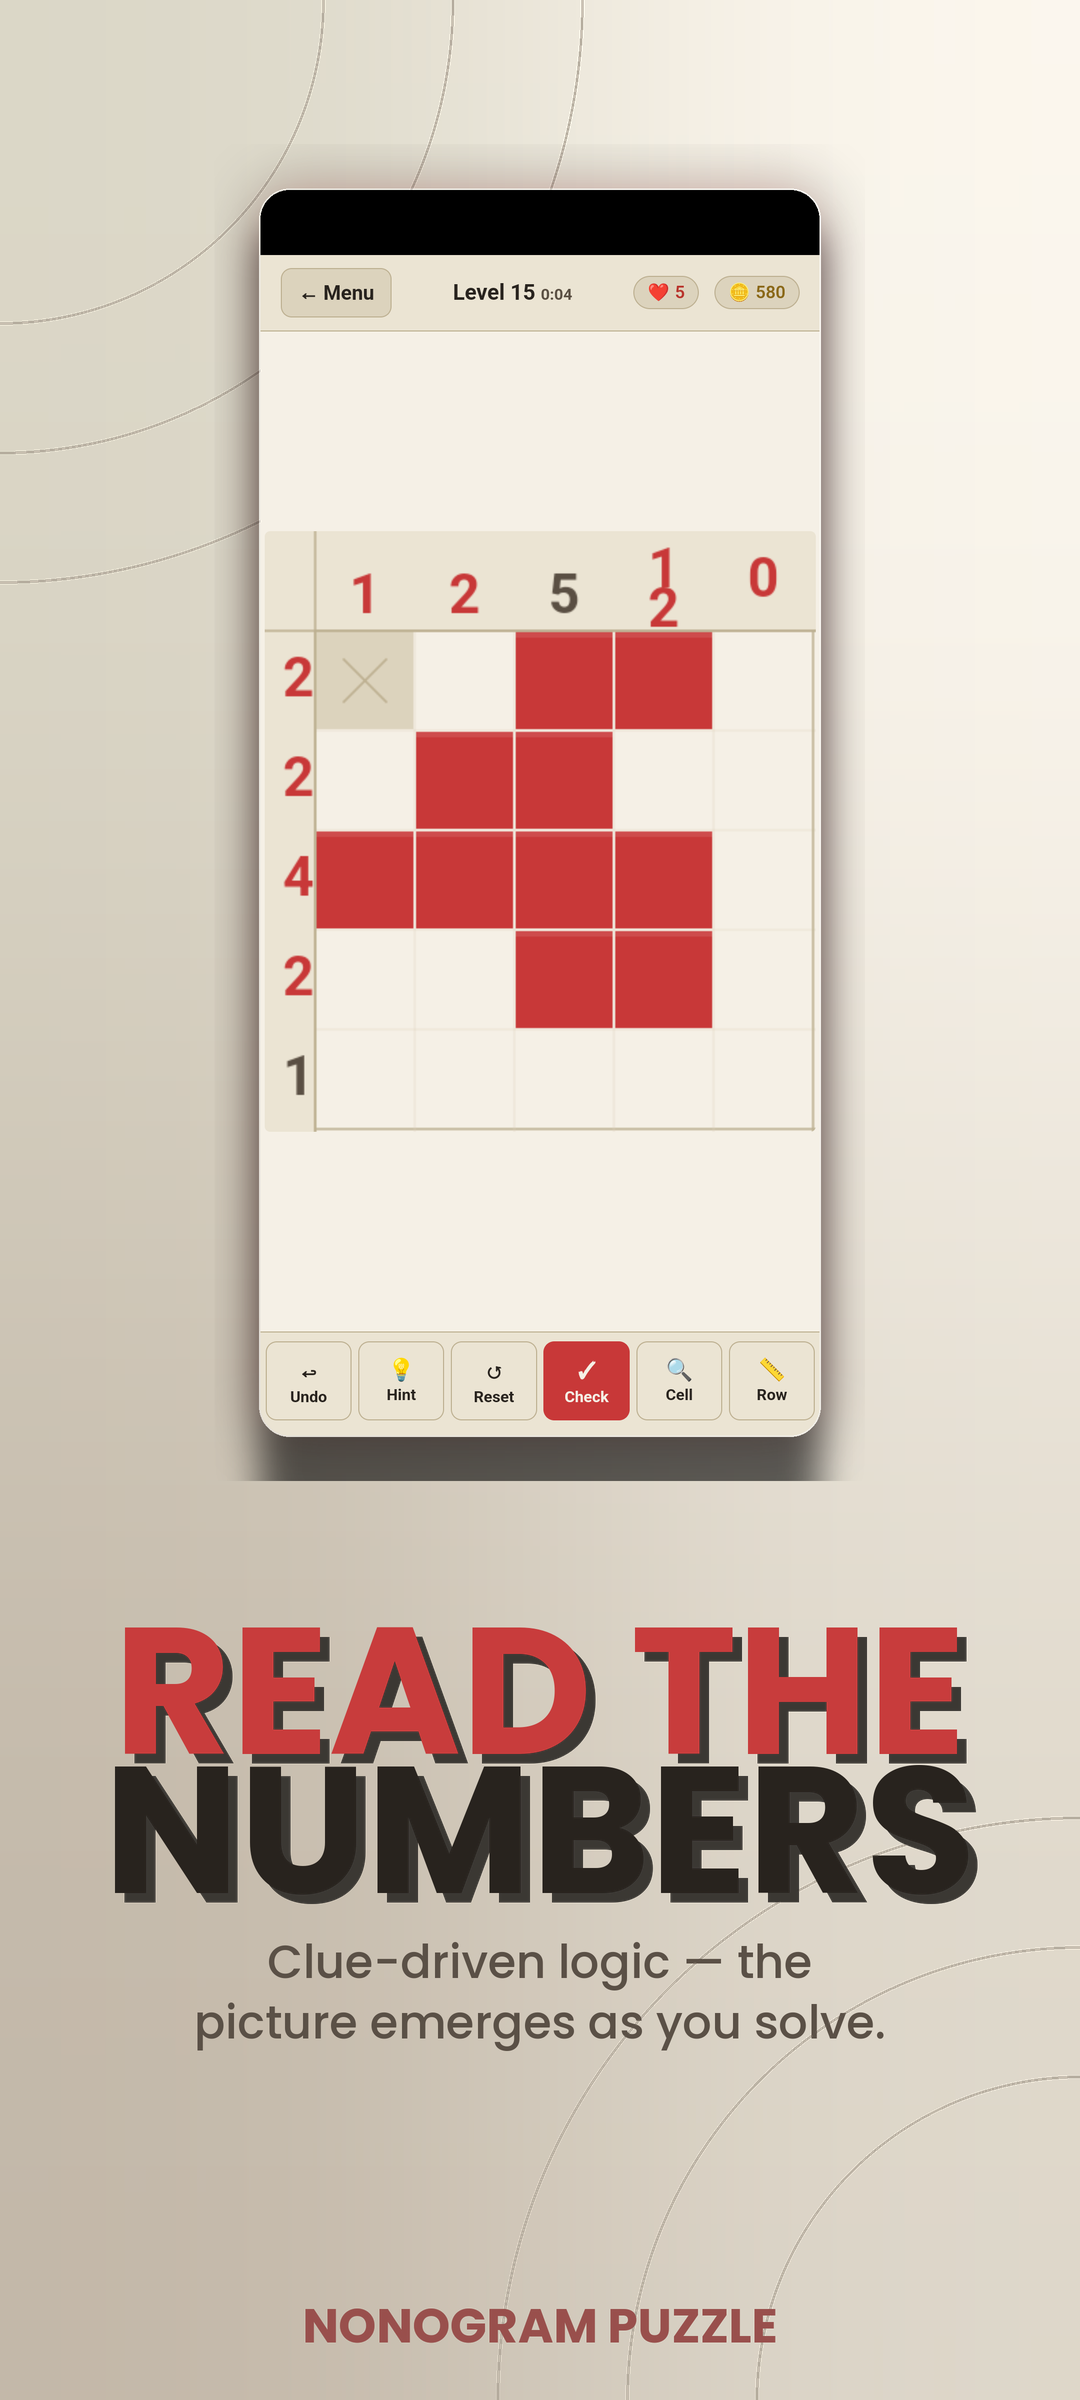
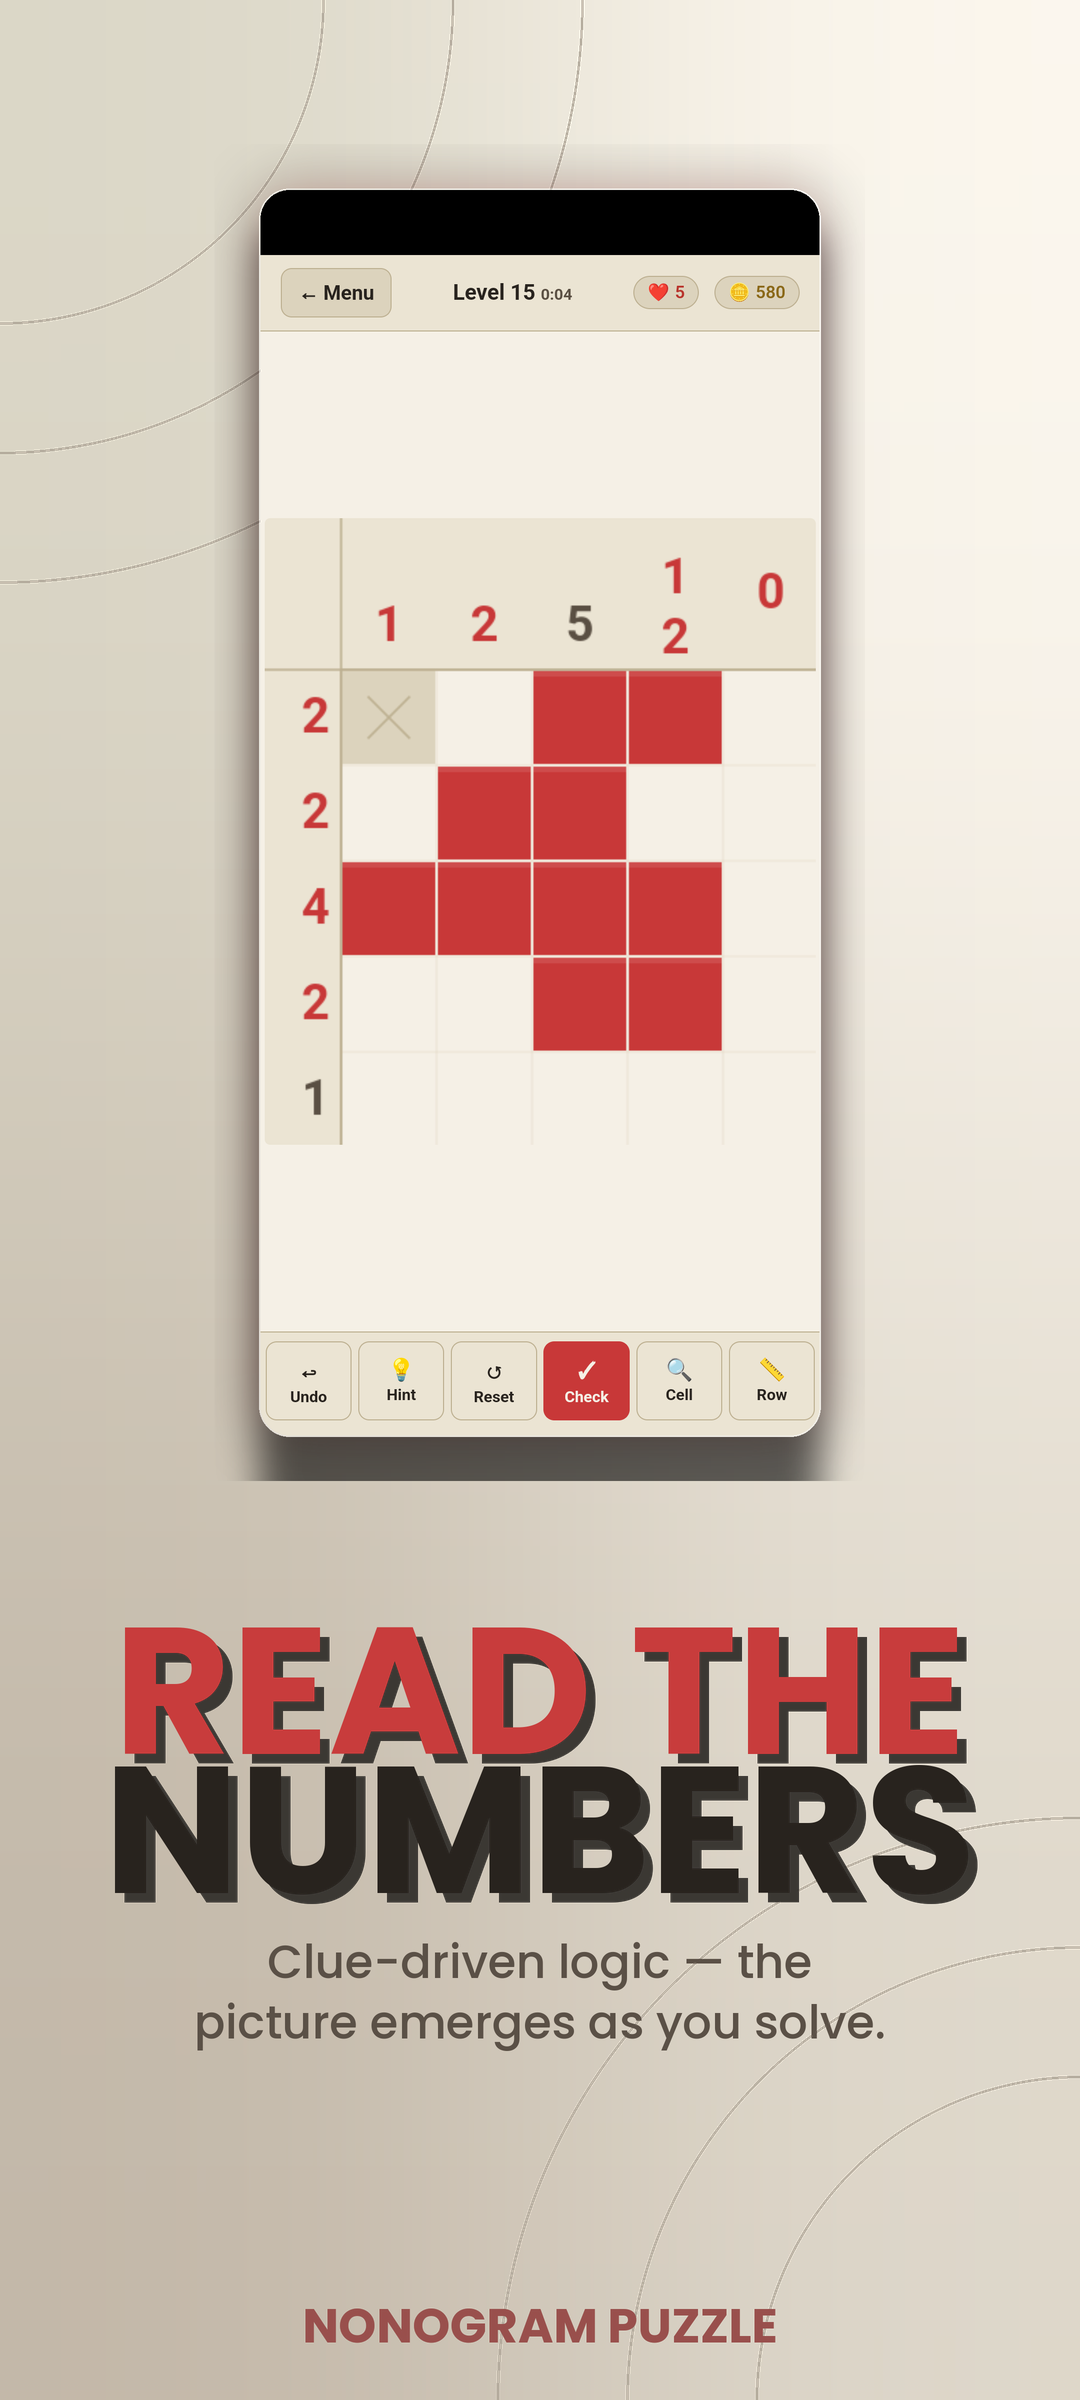
Nono CLUE_SLOT 0.5 -> 0.8: clue numbers no longer overlap vertically
Round-17's CLUE_SLOT=0.5 was less than the fontSize ratio (0.55),
which crashed adjacent clue numbers in the same row/column stack into
each other. Bumping to 0.8 leaves ~0.25*cellSize of breathing space
between numbers while still keeping the clue strip tight enough that
the grid gets 75-80% of the canvas (e.g. 20×20 with maxRowClues=5
takes 24*cellSize horizontally — clue strip 4, grid 20).

Font cap also lowered 40 -> 36 so large-cell boards (5×5 at 146px
cells) don't render giant clue numbers.

Changed region(s): [[0.2444, 0.2188, 0.6722, 0.4688], [0.6722, 0.2188, 0.7333, 0.2812]]

diff --git a/Nonogram/android/app/src/main/assets/game.html b/Nonogram/android/app/src/main/assets/game.html
@@ -3163,12 +3163,15 @@ function resizeCanvas() {
   const availW = W * 0.98;
   const availH = H * 0.98;
 
-  // Each clue slot is treated as ~0.5 of a cell wide/tall — clue
-  // numbers don't need a full cell of room since they're single-digit
-  // most of the time. Computes cellSize so clueW + size*cellSize
-  // exactly fills availW (same for height). Round-17 dropped this
-  // from 0.75 -> 0.5 to give cells more room.
-  const CLUE_SLOT = 0.5;
+  // Each clue slot is ~0.8 of a cell wide/tall. Must stay > the
+  // font-ratio (0.55) so adjacent clue numbers in the same stack don't
+  // overlap vertically (e.g. a column with 5 clues at 0.5*cellSize per
+  // slot at fontSize 0.55*cellSize would crash into each other).
+  // Round-17 first tried 0.5, then 0.8 (round-17b) after the screenshot
+  // showed clues smashed together. Round-17b leaves 0.25*cellSize of
+  // breathing space between numbers while still keeping the clue strip
+  // tight enough to give the grid 75-80% of the canvas.
+  const CLUE_SLOT = 0.8;
   const maxCellW = availW / (size + maxRowClues * CLUE_SLOT);
   const maxCellH = availH / (size + maxColClues * CLUE_SLOT);
   // No artificial cap — let cells fill whatever portrait/landscape
@@ -3296,10 +3299,9 @@ function drawCanvas(flashError) {
   ctx2d.moveTo(0, clueH); ctx2d.lineTo(W, clueH);
   ctx2d.stroke();
 
-  // Draw clues — Round-17 (2026-06-09): font scales with cellSize.
-  // Cap raised to 40px so small boards (5×5 / 10×10) where cells can
-  // grow to 100-160px get appropriately sized clue numbers.
-  const fontSize = Math.max(12, Math.min(cellSize * 0.55, 40));
+  // Draw clues — Round-17b: scale with cellSize, capped at 36 so the
+  // clue strip stays readable but not oversized on big-cell boards.
+  const fontSize = Math.max(12, Math.min(cellSize * 0.55, 36));
   ctx2d.font = `700 ${fontSize}px system-ui, -apple-system, sans-serif`;
   ctx2d.textAlign = 'center';
   ctx2d.textBaseline = 'middle';
